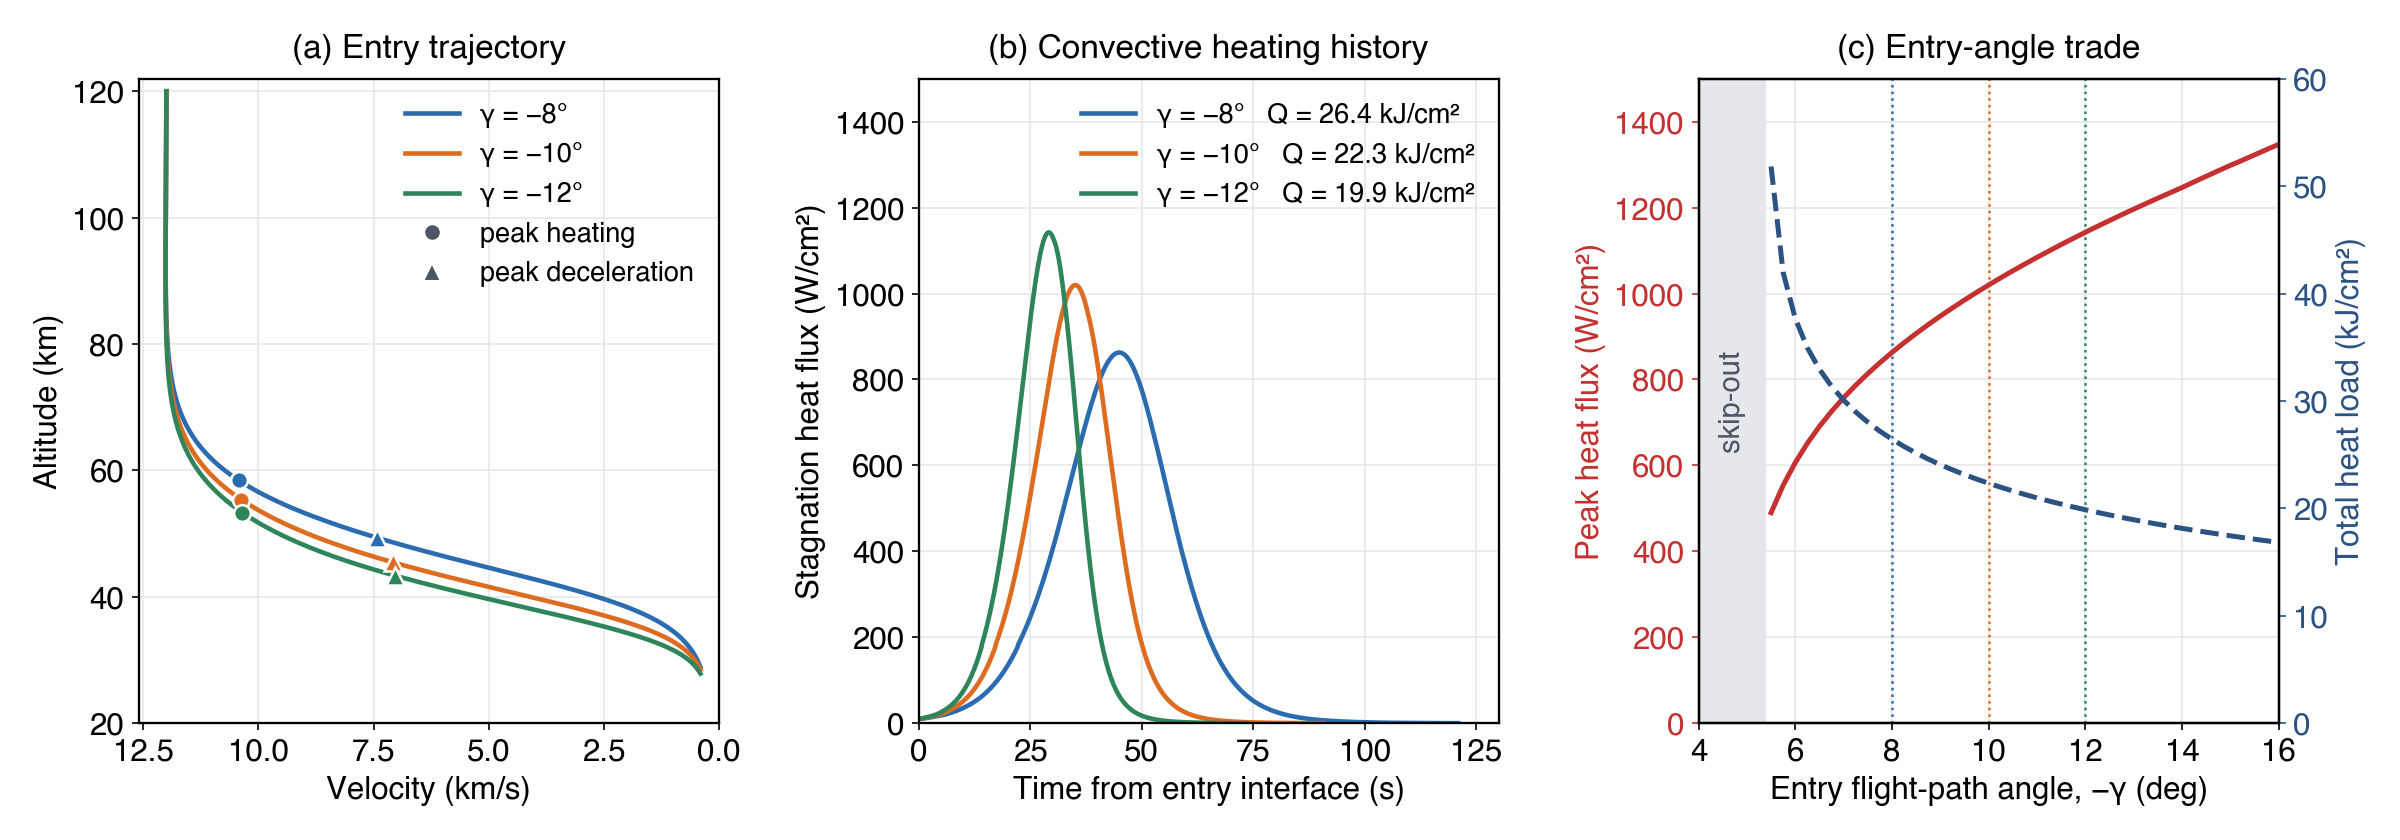
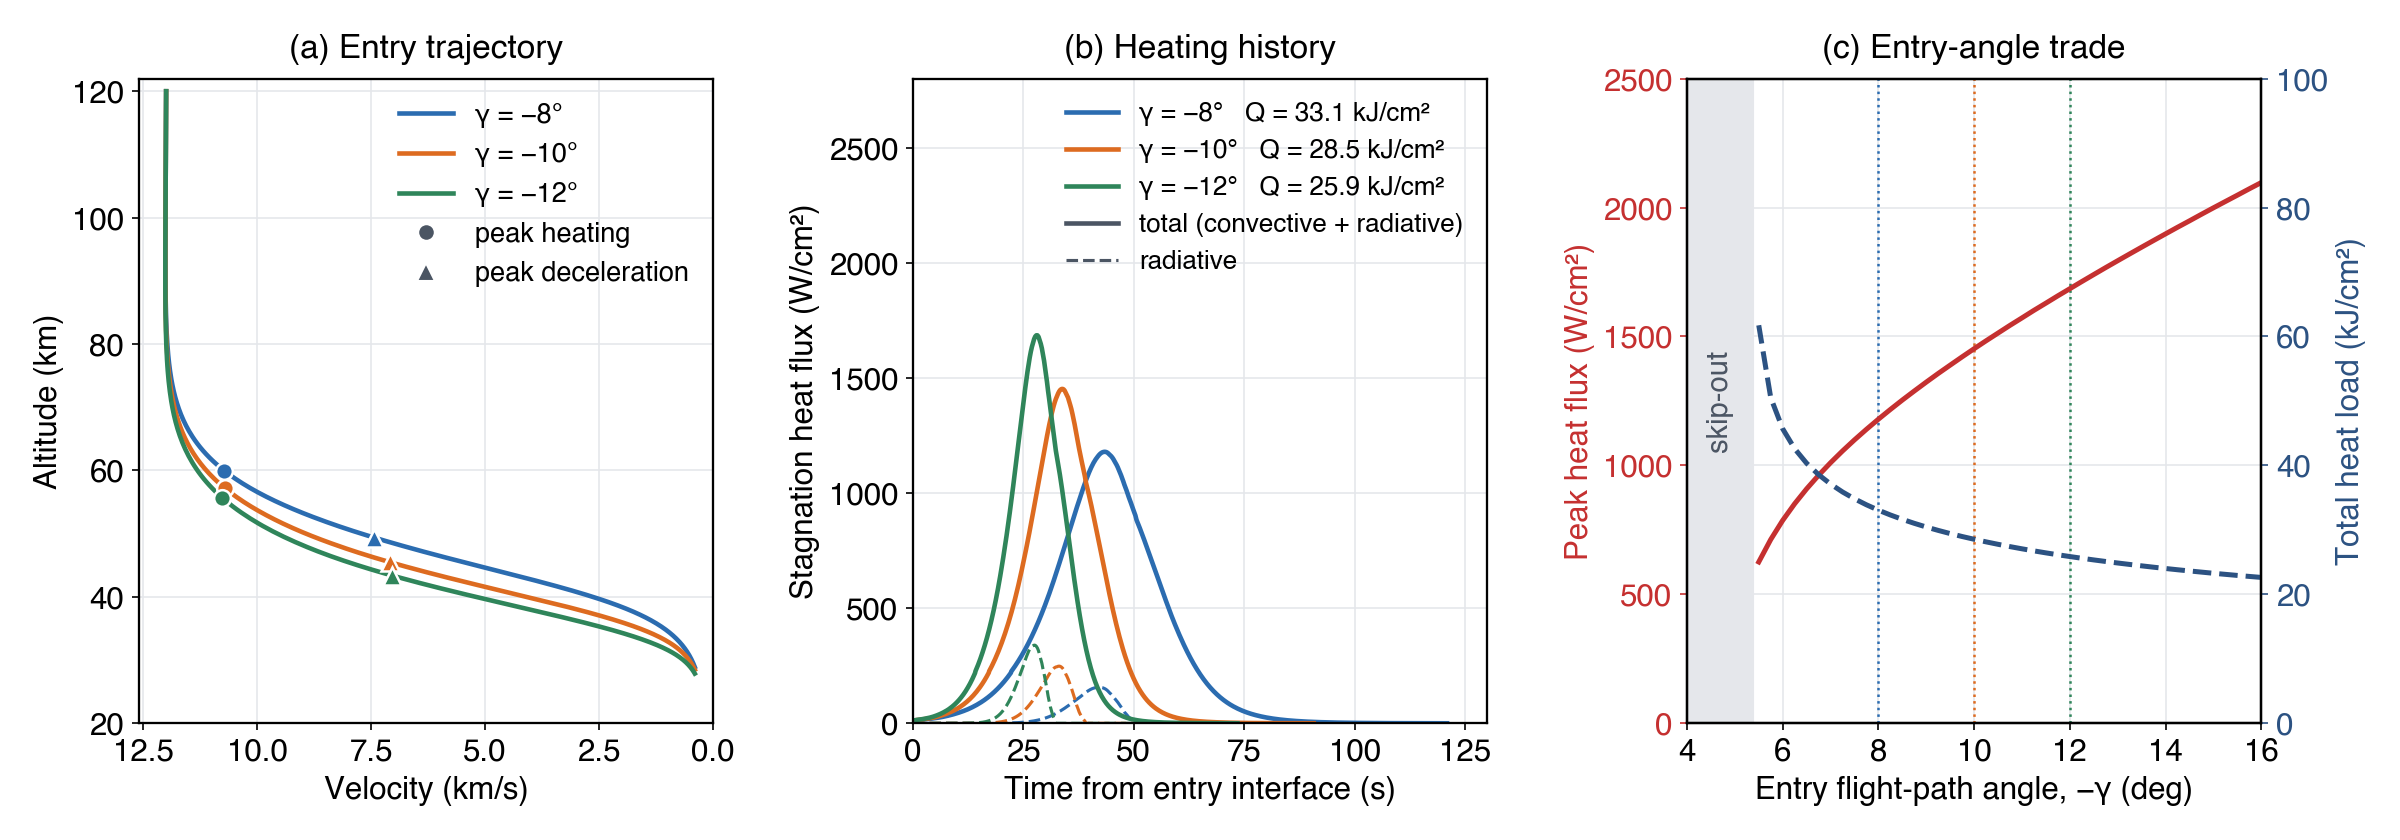
Redraw the re-entry figure with convective plus radiative heating

diff --git a/en/research/index.md b/en/research/index.md
@@ -164,7 +164,7 @@ We analyze aerodynamic heating and deceleration loads as spacecraft and sample r
 - Thermal protection system concepts and thickness sizing, and thermal response analysis of ablative and reusable materials
 - Verification methods using ground tests, such as arc-jet testing, and flight tests
 
-{% include research-figure.html image="reentry-trajectory-heating.png" width="2400" height="840" caption="Example ballistic re-entry analysis of a sample-return capsule. (a) Altitude–velocity trajectories for three entry flight-path angles (γ), with the points of peak heating and peak deceleration. (b) Stagnation-point convective heat flux history and total heat load (Q). (c) Peak heat flux and total heat load versus entry angle. A steeper entry raises the peak heat flux, while a shallower entry lengthens the heating and raises the total heat load. In the gray region the capsule skips back out of the atmosphere. The analysis assumes representative conditions (entry speed of 12 km/s at 120 km altitude, ballistic coefficient of 100 kg/m², nose radius of 0.2 m), the US Standard Atmosphere 1976, and the Sutton–Graves correlation; radiative heating is not included." alt="(a) Altitude–velocity trajectories for entry flight-path angles of −8°, −10°, and −12°, with peak heating marked at about 53–58 km altitude and peak deceleration at about 43–49 km. (b) Stagnation heat flux against time from entry; the peaks are about 860 W/cm² at −8°, 1,020 W/cm² at −10°, and 1,140 W/cm² at −12°, and the total heat loads are 26.4, 22.3, and 19.9 kJ/cm². (c) Peak heat flux (rising solid line) and total heat load (falling dashed line) for entry angles from 4° to 16°, with the skip-out region shallower than about 5.4° shaded gray." credit="SEARCH Lab" %}
+{% include research-figure.html image="reentry-trajectory-heating.png" width="2400" height="840" caption="Example ballistic re-entry analysis of a sample-return capsule. (a) Altitude–velocity trajectories for three entry flight-path angles (γ), with the points of peak heating and peak deceleration. (b) Stagnation-point heat flux history and total heat load (Q). Solid lines are the sum of convective and radiative heating, and dashed lines are the radiative part. (c) Peak heat flux and total heat load versus entry angle. A steeper entry raises the peak heat flux, while a shallower entry lengthens the heating and raises the total heat load. In the gray region the capsule skips back out of the atmosphere. The analysis assumes representative conditions (entry speed of 12 km/s at 120 km altitude, ballistic coefficient of 100 kg/m², nose radius of 0.2 m) and the US Standard Atmosphere 1976, and neglects Earth rotation. Convective heating uses the Detra–Kemp–Riddell correlation and radiative heating the Tauber–Sutton correlation. The same method reproduces the published peak heat flux of the Hayabusa sample-return capsule analysis (Ishii et al., 2008) within 6% for entry angles of −11° to −14°." alt="(a) Altitude–velocity trajectories for entry flight-path angles of −8°, −10°, and −12°, with peak heating marked at about 56–60 km altitude and peak deceleration at about 43–49 km. (b) Stagnation heat flux against time from entry; the peaks of convective plus radiative heating are about 1,180 W/cm² at −8°, 1,450 W/cm² at −10°, and 1,690 W/cm² at −12°, of which radiative heating is about 150, 240, and 330 W/cm², and the total heat loads are 33.1, 28.5, and 25.9 kJ/cm². (c) Peak heat flux (rising solid line) and total heat load (falling dashed line) for entry angles from 4° to 16°, with the skip-out region shallower than about 5.4° shaded gray." credit="SEARCH Lab" %}
 
 {% include research-figure.html topic="reentry" caption="A conceptual cross-section of a sample-return capsule showing the detached bow shock, the hot shock layer, stagnation-point heating, and the forebody ablator and backshell thermal protection. The enlarged stack-up shows the temperature profile through the ablator and the bondline temperature limit that sizes its thickness. Shapes and thicknesses are not to scale." alt="A sample-return capsule facing hypersonic flow and a detached bow shock, with the stagnation point, forebody ablator, backshell thermal protection, structure, and sample canister identified. An enlarged stack-up shows the char, pyrolysis, and virgin ablator zones, the bondline, and the temperature profile, and a band below shows the analysis flow from entry trajectory to aerothermal environment, thermal protection sizing, and arc-jet and flight testing." %}
 

diff --git a/research/index.md b/research/index.md
@@ -164,7 +164,7 @@ SEARCH Lab은 화성 탐사선이 대기권에 진입해 속도를 줄이고 지
 - 열방호시스템 개념설계와 두께 산정, 삭마형 및 재사용형 열방호재의 열응답 해석
 - 아크젯 등 지상시험과 비행시험을 활용한 검증 방법 연구
 
-{% include research-figure.html image="reentry-trajectory-heating.png" width="2400" height="840" caption="시료귀환 캡슐의 탄도 재진입 해석 예. (a) 진입 비행경로각(γ)에 따른 고도–속도 궤적과 최대 가열, 최대 감속 지점, (b) 정체점 대류 열유속의 시간 이력과 총 가열량(Q), (c) 진입각에 따른 최대 열유속과 총 가열량. 진입각이 깊으면 최대 열유속이 커지고, 얕으면 가열 시간이 길어져 총 가열량이 커집니다. 회색 영역은 캡슐이 대기를 스치고 다시 벗어나는 구간입니다. 고도 120 km에서 진입속도 12 km/s, 탄도계수 100 kg/m², 노즈 반경 0.2 m인 대표 조건을 가정했고, 미국 표준대기 1976과 Sutton–Graves 식을 사용했으며 복사 가열은 포함하지 않았습니다." alt="(a) 진입 비행경로각 −8°, −10°, −12°에 대한 고도–속도 궤적. 세 궤적 모두 고도 약 53~58 km에서 최대 가열, 약 43~49 km에서 최대 감속 지점이 표시되어 있습니다. (b) 진입 후 시간에 따른 정체점 열유속. 최대값은 −8°에서 약 860 W/cm², −10°에서 약 1,020 W/cm², −12°에서 약 1,140 W/cm²이고 총 가열량은 각각 26.4, 22.3, 19.9 kJ/cm²입니다. (c) 진입각 4°~16°에 대한 최대 열유속(증가하는 실선)과 총 가열량(감소하는 점선), 약 5.4°보다 얕은 대기 이탈 영역을 회색으로 나타낸 그림." credit="SEARCH Lab" %}
+{% include research-figure.html image="reentry-trajectory-heating.png" width="2400" height="840" caption="시료귀환 캡슐의 탄도 재진입 해석 예. (a) 진입 비행경로각(γ)에 따른 고도–속도 궤적과 최대 가열, 최대 감속 지점. (b) 정체점 열유속의 시간 이력과 총 가열량(Q). 실선은 대류 가열과 복사 가열의 합, 점선은 복사 가열입니다. (c) 진입각에 따른 최대 열유속과 총 가열량. 진입각이 깊으면 최대 열유속이 커지고, 얕으면 가열 시간이 길어져 총 가열량이 커집니다. 회색 영역은 캡슐이 대기를 스치고 다시 벗어나는 구간입니다. 고도 120 km에서 진입속도 12 km/s, 탄도계수 100 kg/m², 노즈 반경 0.2 m인 대표 조건과 미국 표준대기 1976을 가정했고, 지구 자전은 고려하지 않았습니다. 대류 가열은 Detra–Kemp–Riddell 식, 복사 가열은 Tauber–Sutton 식으로 계산했습니다. 같은 방법으로 계산한 하야부사 귀환 캡슐의 최대 열유속은 공개된 해석값(Ishii 외, 2008)과 진입각 −11°~−14°에서 6% 이내로 일치합니다." alt="(a) 진입 비행경로각 −8°, −10°, −12°에 대한 고도–속도 궤적. 세 궤적 모두 고도 약 56~60 km에서 최대 가열, 약 43~49 km에서 최대 감속 지점이 표시되어 있습니다. (b) 진입 후 시간에 따른 정체점 열유속. 대류와 복사를 합한 최대값은 −8°에서 약 1,180 W/cm², −10°에서 약 1,450 W/cm², −12°에서 약 1,690 W/cm²이고, 이 가운데 복사 가열은 각각 약 150, 240, 330 W/cm²입니다. 총 가열량은 각각 33.1, 28.5, 25.9 kJ/cm²입니다. (c) 진입각 4°~16°에 대한 최대 열유속(증가하는 실선)과 총 가열량(감소하는 점선), 약 5.4°보다 얕은 대기 이탈 영역을 회색으로 나타낸 그림." credit="SEARCH Lab" %}
 
 {% include research-figure.html topic="reentry" caption="시료귀환 캡슐의 단면 개념도. 이탈 충격파와 고온 충격층, 정체점 가열, 전방동체 삭마재와 후방동체 열방호재의 구성을 나타내며, 오른쪽 확대도는 삭마재 내부의 온도 분포와 두께 산정 기준인 접합면 온도 한계를 보여줍니다. 형상과 두께는 축척을 따르지 않습니다." alt="극초음속 유동과 이탈 충격파를 마주한 시료귀환 캡슐의 단면. 정체점, 전방동체 삭마재, 후방동체 열방호재, 구조체, 시료 용기를 구분하고, 확대도에 탄화층, 열분해층, 미반응층, 접합층, 구조체의 적층과 온도 분포를, 아래에 재진입 궤적부터 공력가열 환경, 열방호시스템 두께 산정, 아크젯 시험과 비행시험까지의 해석 흐름을 나타낸 개념도." %}
 
